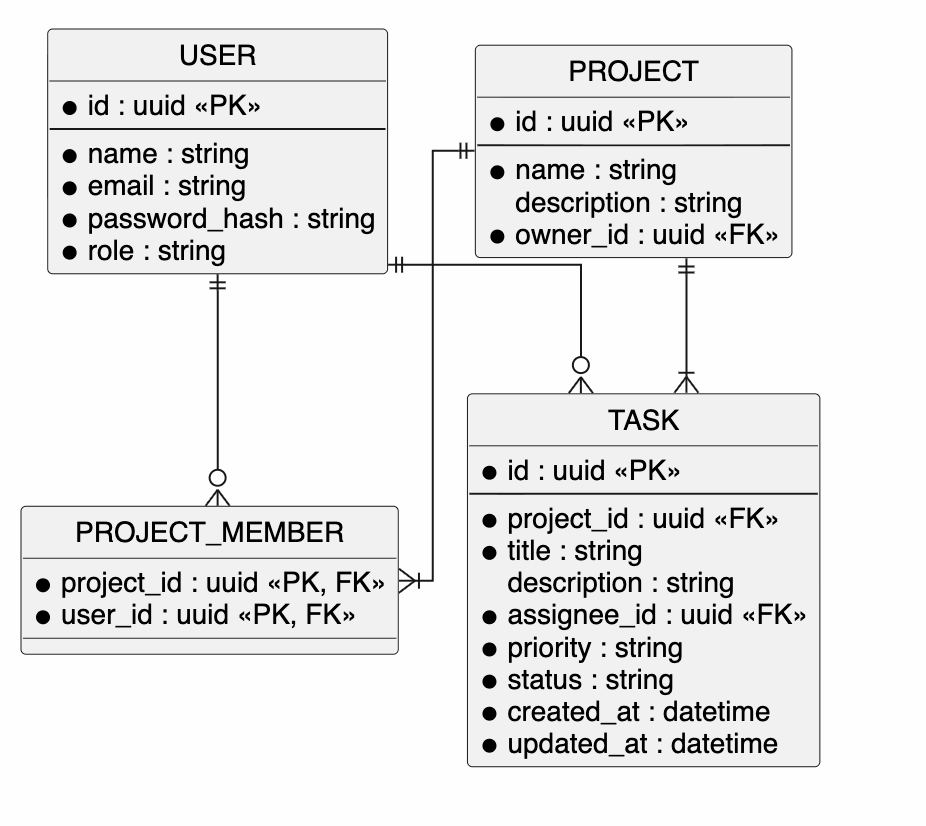
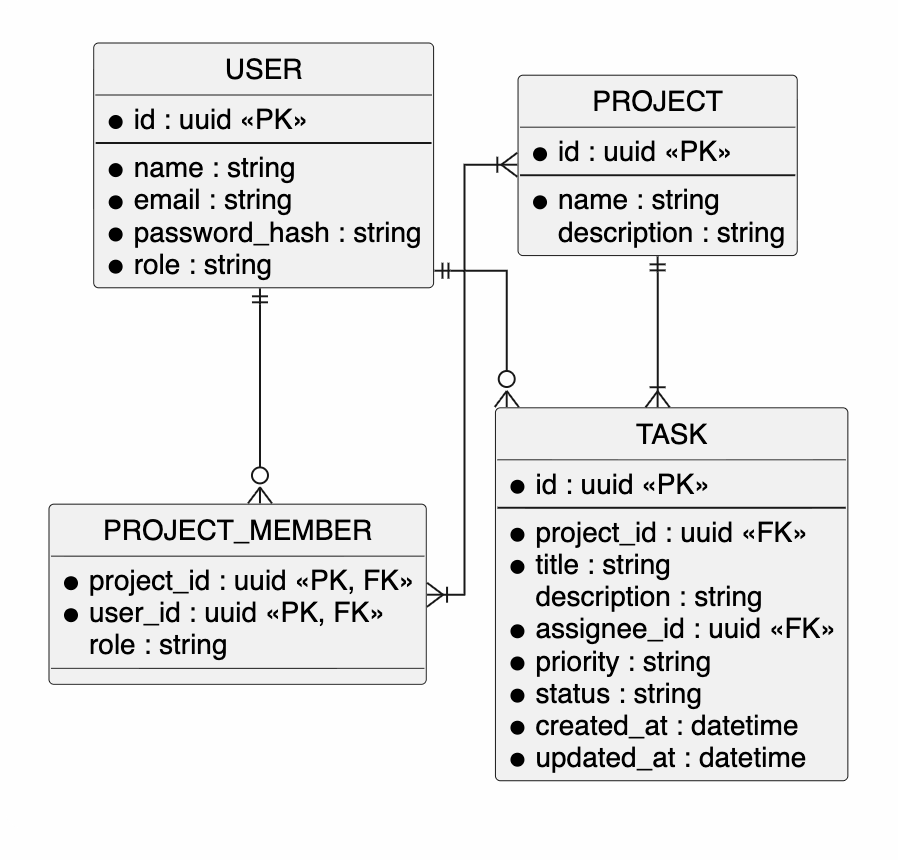
Updated md files

diff --git a/spec.md b/spec.md
@@ -50,10 +50,6 @@ task-tracker — вебзастосунок на Node.js для керуванн
 | C-05 | Завдання   | модуль серверу     | Node.js      |
 | C-06 | База даних | сховище даних      | TODO: обрати |
 
-### Діаграма компонентів
-
-[Діаграма](./docs/diagrams/img/component.png)
-
 ### C-01. Фронтенд
 
 Веб-інтерфейс, через який працюють обидві ролі.
@@ -86,10 +82,9 @@ task-tracker — вебзастосунок на Node.js для керуванн
 - **Відповідає за:**
   - створення проєкту (лише роль `TEAM_LEAD`);
   - отримання проєкту та списку проєктів, доступних користувачу: team lead бачить створені ним, team member — ті, до яких його додано;
-  - визначення власника проєкту.
 - **Володіє даними:** E-02 (Project).
-- **Надає іншим модулям:** чи існує проєкт; чи є користувач його власником.
-- **Залежить від:** C-04 (склад команди для списку проєктів і перевірки доступу), C-06.
+- **Надає іншим модулям:** чи існує проєкт;
+- **Залежить від:** C-04 (склад команди для списку проєктів і перевірки доступу), C-06, C-02.
 
 ### C-04. Команда
 
@@ -97,12 +92,13 @@ task-tracker — вебзастосунок на Node.js для керуванн
 
 - **Відповідає за:**
   - додавання учасника до проєкту за `email` (лише власник проєкту);
+  - визначення ролі користувача в проєкті (owner / member)
   - список учасників проєкту;
   - перевірку, чи є користувач учасником проєкту;
   - список проєктів, у яких бере участь користувач.
 - **Володіє даними:** E-03 (ProjectMember).
 - **Надає іншим модулям:** чи є користувач учасником проєкту; проєкти користувача; список учасників проєкту.
-- **Залежить від:** C-02 (знайти користувача за `email`), C-03 (власник проєкту), C-06.
+- **Залежить від:** C-02 (знайти користувача за `email`), C-06.
 
 ### C-05. Завдання
 
@@ -132,6 +128,10 @@ task-tracker — вебзастосунок на Node.js для керуванн
 
 Кожен запит від C-01 спершу проходить автентифікацію в C-02, а далі потрапляє до модуля, що відповідає за ендпоінт. Модулі викликають один одного напряму (виклик функції в межах одного серверу), а до C-06 звертаються через обране сховище.
 
+### Діаграма компонентів
+
+[Діаграма](./docs/diagrams/img/component.png)
+
 ### Приклад: створення задачі
 
 [Діаграма](./docs/diagrams/img/sequence.png)
@@ -141,8 +141,7 @@ task-tracker — вебзастосунок на Node.js для керуванн
 | Від                    | До                     | Спосіб         | Що передається                                                   |
 | ---------------------- | ---------------------- | -------------- | ---------------------------------------------------------------- |
 | C-01                   | C-02, C-03, C-04, C-05 | HTTP/JSON      | запити користувача; у відповідь — дані або код помилки           |
-| C-03                   | C-04                   | виклик функції | проєкти користувача, чи є користувач учасником, список учасників |
-| C-04                   | C-03                   | виклик функції | чи існує проєкт, чи є користувач його власником                  |
+| C-03                   | C-04                   | виклик функції | проєкти користувача, чи є користувач учасником/власником, список учасників |    
 | C-04                   | C-02                   | виклик функції | користувач за `email`                                            |
 | C-05                   | C-02                   | виклик функції | поточний користувач, ім'я виконавця                              |
 | C-05                   | C-03                   | виклик функції | чи є користувач власником проєкту                                |
@@ -151,21 +150,23 @@ task-tracker — вебзастосунок на Node.js для керуванн
 
 ### API
 
-Усі ендпоінти вимагають автентифікованого користувача (спосіб автентифікації — див. розділ 6). Тіла запитів і відповідей — JSON.
+Усі ендпоінти, крім `/auth/register` та `/auth/login`, вимагають автентифікованого користувача. Тіла запитів і відповідей — JSON.
 
-| Ендпоінт                                      | Модуль | Хто має доступ                     | Запит                                                                                                | Відповідь                                        | Помилки                                                                         |
-| --------------------------------------------- | ------ | ---------------------------------- | ---------------------------------------------------------------------------------------------------- | ------------------------------------------------ | ------------------------------------------------------------------------------- |
-| `POST /projects`                              | C-03   | Team lead                          | `name` (1–100), `description` (0–1000, необов'язково)                                                | `201`, проєкт                                    | `400` невалідні дані; `401`; `403` не team lead                                 |
-| `GET /projects`                               | C-03   | Team lead, team member             | —                                                                                                    | `200`, проєкти, доступні користувачу             | `401`                                                                           |
-| `GET /projects/{projectId}`                   | C-03   | Власник проєкту, учасник проєкту   | —                                                                                                    | `200`, проєкт і список учасників                 | `401`; `403` немає доступу; `404`                                               |
-| `POST /projects/{projectId}/members`          | C-04   | Власник проєкту                    | `email` користувача                                                                                  | `201`, оновлений список учасників                | `400`; `401`; `403`; `404` проєкт або користувач не знайдені; `409` уже учасник |
-| `GET /projects/{projectId}/tasks?assignee=me` | C-05   | Власник проєкту, учасник проєкту   | параметр `assignee=me` необов'язковий: лише мої задачі                                               | `200`, задачі проєкту                            | `401`; `403`; `404`                                                             |
-| `POST /projects/{projectId}/tasks`            | C-05   | Власник проєкту                    | `title` (1–200), `description` (0–5000), `assigneeId`, `priority` (LOW / MEDIUM / HIGH)              | `201`, задача зі статусом TODO                   | `400`; `401`; `403`; `404`; `422` виконавець не є учасником проєкту             |
-| `GET /tasks/{taskId}`                         | C-05   | Власник проєкту, учасник проєкту   | —                                                                                                    | `200`, задача з усіма полями та іменем виконавця | `401`; `403`; `404`                                                             |
-| `PATCH /tasks/{taskId}`                       | C-05   | Власник проєкту                    | `title` (1–200), `description` (0–5000), `priority` (LOW / MEDIUM / HIGH); потрібне хоча б одне поле | `200`, оновлена задача                           | `400` невалідні дані або жодного поля; `401`; `403`; `404`                      |
-| `PATCH /tasks/{taskId}/status`                | C-05   | Власник проєкту; виконавець задачі | `status`                                                                                             | `200`, задача                                    | `400`; `401`; `403`; `404`; `422` недозволений перехід статусу                  |
-| `PATCH /tasks/{taskId}/assignee`              | C-05   | Власник проєкту                    | `assigneeId`                                                                                         | `200`, задача                                    | `400`; `401`; `403`; `404`; `422` виконавець не є учасником проєкту             |
-| `DELETE /tasks/{taskId}`                      | C-05   | Власник проєкту                    | —                                                                                                    | `204`                                            | `401`; `403`; `404`                                                             |     |
+| Ендпоінт | Модуль | Хто має доступ | Запит | Відповідь | Помилки |
+| -------- | ------ | -------------- | ----- | ---------- | ------- |
+| `POST /auth/register` | C-02 | Неавтентифікований користувач | `name` (1–100), `email`, `password` | `201`, створений користувач | `400` невалідні дані; `409` email уже зареєстрований |
+| `POST /auth/login` | C-02 | Неавтентифікований користувач | `email`, `password` | `200`, токен автентифікації | `400` невалідні дані; `401` неправильний email або пароль |
+| `POST /projects` | C-03 | Team lead | `name` (1–100), `description` (0–1000, необов'язково) | `201`, проєкт | `400` невалідні дані; `401`; `403` не team lead |
+| `GET /projects` | C-03 | Team lead, team member | — | `200`, проєкти, доступні користувачу | `401` |
+| `GET /projects/{projectId}` | C-03 | Власник проєкту, учасник проєкту | — | `200`, проєкт і список учасників | `401`; `403` немає доступу; `404` |
+| `POST /projects/{projectId}/members` | C-04 | Власник проєкту | `email` користувача | `201`, оновлений список учасників | `400`; `401`; `403`; `404` проєкт або користувач не знайдені; `409` уже учасник |
+| `GET /projects/{projectId}/tasks?assignee=me` | C-05 | Власник проєкту, учасник проєкту | параметр `assignee=me` необов'язковий: лише мої задачі | `200`, задачі проєкту | `401`; `403`; `404` |
+| `POST /projects/{projectId}/tasks` | C-05 | Власник проєкту | `title` (1–200), `description` (0–5000), `assigneeId`, `priority` (LOW / MEDIUM / HIGH) | `201`, задача зі статусом TODO | `400`; `401`; `403`; `404`; `422` виконавець не є учасником проєкту |
+| `GET /tasks/{taskId}` | C-05 | Власник проєкту, учасник проєкту | — | `200`, задача з усіма полями та іменем виконавця | `401`; `403`; `404` |
+| `PATCH /tasks/{taskId}` | C-05 | Власник проєкту | `title` (1–200), `description` (0–5000), `priority` (LOW / MEDIUM / HIGH); потрібне хоча б одне поле | `200`, оновлена задача | `400` невалідні дані або жодного поля; `401`; `403`; `404` |
+| `PATCH /tasks/{taskId}/status` | C-05 | Власник проєкту; виконавець задачі | `status` | `200`, задача | `400`; `401`; `403`; `404`; `422` недозволений перехід статусу |
+| `PATCH /tasks/{taskId}/assignee` | C-05 | Власник проєкту | `assigneeId` | `200`, задача | `400`; `401`; `403`; `404`; `422` виконавець не є учасником проєкту |
+| `DELETE /tasks/{taskId}` | C-05 | Власник проєкту | — | `204` | `401`; `403`; `404` |                                                      |     |
 
 ## 4. ER-діаграма
 
@@ -188,7 +189,6 @@ task-tracker — вебзастосунок на Node.js для керуванн
 | id          | uuid   | PK                                                      |
 | name        | string | 1–100 символів, обов'язкове                             |
 | description | string | 0–1000 символів, необов'язкове                          |
-| owner_id    | uuid   | FK → E-01, обов'язкове; користувач із роллю `TEAM_LEAD` |
 
 ### E-03. ProjectMember (C-04)
 
@@ -196,6 +196,7 @@ task-tracker — вебзастосунок на Node.js для керуванн
 | ---------- | ---- | -------------------------------- |
 | project_id | uuid | FK → E-02, частина складеного PK |
 | user_id    | uuid | FK → E-01, частина складеного PK |
+| role    | string   | member/owner |
 
 Пара (`project_id`, `user_id`) унікальна: користувач не може бути доданий до проєкту двічі.
 

diff --git a/audit-spec.md b/audit-spec.md
@@ -1,0 +1,17 @@
+# Аудит spec.md
+
+## 1. Відповідність структури формату
+
+Структура `spec.md` загалом відповідає формату: усі п'ять розділів на місці, у правильному порядку, з потрібним наповненням. Опис містить призначення, права ролей і межі; компоненти мають таблицю та поля «відповідає за», «володіє даними», «залежить від»; розділ взаємодії має реєстр викликів і таблицю API з ролями, тілами та кодами помилок; ER-розділ має діаграму, таблиці полів і переходи статусів; усі шість обов'язкових сценаріїв описано за шаблоном. Ідентифікатори `C-`, `E-`, `U-` витримано, діаграми лежать як PlantUML-код у `/docs`.
+
+Відмінності від format-spec: 
+- Діаграма компонентів стоїть у розділі 2, тоді як формат вимагає діаграму всіх компонентів у розділі 3.
+- У форматі для ER-діаграми досі вказано Mermaid, хоча загальні вимоги кажуть про PlantUML.
+
+## 2. Топ-3 зайві або неправильні залежності
+
+**1. Цикл C-03 ↔ C-04 (неправильна).** Проєкт залежить від Команди (склад учасників для списку проєктів), а Команда від Проєкту (власник для додавання учасника). Через це правило «власник або учасник» розмазане по трьох модулях. Виправлення: зберігати власника в E-03 з полем ролі, тоді залежність C-04 → C-03 зникне.
+
+**2. C-01 → C-02 без контракту (зайва).** Фронтенд «залежить» від модуля користувача, але в таблиці API немає жодного його ендпоінта: ні реєстрації, ні входу. Або додати такі ендпоінти, або прибрати залежність.
+
+**3. Автентифікація не відображена в залежностях (неповна).** Розділ 5 каже, що кожен запит проходить автентифікацію в C-02, але C-03 і C-04 у «Залежить від» його для цього не мають, а «поточний користувач» у реєстрі передається лише в C-05. Або додати C-02 до залежностей усіх модулів, або описати автентифікацію як наскрізний крок перед ними.

diff --git a/docs/adr/02-choose-architecture.md b/docs/adr/02-choose-architecture.md
@@ -1,0 +1,44 @@
+---
+date: 2026-09-30
+---
+
+# Архітектура серверу: модульний моноліт із шарами controller, service, repository
+
+## Контекст і проблема
+
+Сервер має обробляти чотири предметні частини: користувачів, проєкти, команди та задачі. Потрібно вирішити, як організувати код, щоб відповідальності були розмежовані, а правила доступу й бізнес-правила перевірялися в одному місці.
+
+## Чинники рішення
+
+- Чіткі межі відповідальності між частинами предметної області
+- Перевірка прав і бізнес-правил на сервері, а не в інтерфейсі
+- Простота розгортання та розробки
+- Тестованість окремих шарів
+
+## Розглянуті варіанти
+
+- Один шар обробників маршрутів без розділення на модулі
+- Модульний моноліт: модулі user, project, team, task, у кожному controller, service, repository
+
+## Результат рішення
+
+Обрано модульний моноліт із трьома шарами в кожному модулі, тому що він розмежовує відповідальності, зберігає простоту розгортання одного застосунку й дозволяє тестувати шари окремо.
+
+### Наслідки
+
+- Плюс: controller відповідає за HTTP, service за бізнес-правила й права, repository єдиний працює з базою даних.
+- Плюс: модулі викликають один одного лише через сервіси.
+- Мінус: між модулями project і team виникає взаємна залежність, яку потрібно розв'язати окремим рішенням.
+- Мінус: більше файлів і класів, ніж в одношаровому варіанті.
+
+## Плюси і мінуси варіантів
+
+### Один шар обробників маршрутів
+
+- Плюс: найменше коду.
+- Мінус: бізнес-правила змішуються з HTTP-логікою й дублюються в різних маршрутах.
+
+### Модульний моноліт із шарами
+
+- Плюс: чіткі межі, однакова будова модулів, простий запуск.
+- Мінус: потрібно стежити за напрямком залежностей між модулями.

diff --git a/docs/adr/03-choose-database.md b/docs/adr/03-choose-database.md
@@ -1,0 +1,43 @@
+---
+date: 2026-09-30
+---
+
+# Тип сховища даних: реляційна база даних із SQL
+
+## Контекст і проблема
+
+Застосунок зберігає користувачів, проєкти, учасників проєктів і задачі, які пов'язані між собою. Потрібно обрати тип сховища для цих даних.
+
+## Чинники рішення
+
+- Реляційні зв'язки між сутностями (проєкт, учасник, задача, виконавець)
+- Цілісність даних: зовнішні ключі й унікальні обмеження
+- Транзакційність операцій
+- Простота розробки
+
+## Розглянуті варіанти
+
+- Реляційна база даних (SQL)
+- Документна база даних (наприклад, MongoDB)
+
+## Результат рішення
+
+Обрано реляційну базу даних із SQL, тому що дані мають чіткі зв'язки, а цілісність (унікальність `email`, пари «проєкт + учасник», зовнішні ключі) зручно гарантувати на рівні сховища.
+
+### Наслідки
+
+- Плюс: цілісність зв'язків забезпечується зовнішніми ключами та обмеженнями, а модулі звертаються до бази через SQL-запити в репозиторіях.
+- Мінус: потрібна схема даних і початкова ініціалізація бази.
+- Конкретну СУБД слід обрати окремим ADR.
+
+## Плюси і мінуси варіантів
+
+### Реляційна база даних (SQL)
+
+- Плюс: зовнішні ключі, унікальні обмеження, транзакції.
+- Мінус: потрібні схема й міграції.
+
+### Документна база даних
+
+- Плюс: гнучка схема.
+- Мінус: зв'язки та унікальність між сутностями доводиться підтримувати в коді.

diff --git a/standards/adr-format.md b/standards/adr-format.md
@@ -62,55 +62,3 @@ date: YYYY-MM-DD
 ### Плюси і мінуси варіантів
 
 Для кожного розглянутого варіанта — короткий список переваг і недоліків.
-
-```markdown
----
-status: accepted
-date: 2026-09-29
-decision-makers: автор проєкту
----
-
-# Вибір бази даних: PostgreSQL
-
-## Контекст і проблема
-
-Застосунку потрібно зберігати користувачів, проєкти, учасників і задачі зі зв'язками між ними. Потрібно обрати систему зберігання даних.
-
-## Чинники рішення
-
-- Реляційні зв'язки між сутностями
-- Транзакційність операцій
-- Простота розгортання
-
-## Розглянуті варіанти
-
-- PostgreSQL
-- SQLite
-- MongoDB
-
-## Результат рішення
-
-Обрано PostgreSQL, тому що дані мають чіткі реляційні зв'язки й потребують транзакцій.
-
-### Наслідки
-
-- Плюс: цілісність даних гарантується зовнішніми ключами та транзакціями.
-- Мінус: потрібен окремий сервер БД у середовищі розробки.
-
-## Плюси і мінуси варіантів
-
-### PostgreSQL
-
-- Плюс: зовнішні ключі, транзакції, багата підтримка типів.
-- Мінус: складніше розгортання.
-
-### SQLite
-
-- Плюс: не потребує сервера.
-- Мінус: обмежена підтримка одночасного запису.
-
-### MongoDB
-
-- Плюс: гнучка схема.
-- Мінус: зв'язки між сутностями доводиться підтримувати вручну.
-```

diff --git a/docs/adr/01-choose-platform.md b/docs/adr/01-choose-platform.md
@@ -1,0 +1,42 @@
+---
+date: 2026-09-30
+---
+
+# Вибір платформи для серверу: Node.js
+
+## Контекст і проблема
+
+Потрібно реалізувати вебзастосунок task-tracker із HTTP API, ролями користувачів і канбан-дошкою. Треба обрати платформу для серверної частини.
+
+## Чинники рішення
+
+- Швидкий старт і невелика кількість шаблонного коду
+- Знайомство автора з мовою
+- Багата екосистема пакетів і інструментів для тестування та перевірки якості
+- Проста локальна розробка без важкого середовища
+
+## Розглянуті варіанти
+
+- Node.js
+- Python
+
+## Результат рішення
+
+Обрано Node.js, тому що він дає швидкий старт, знайомий автору стек JavaScript і зручні інструменти для тестів та перевірки коду.
+
+### Наслідки
+
+- Плюс: одна мова та єдиний менеджер пакетів (`npm`) для коду, тестів і скриптів перевірок.
+- Мінус: відсутня статична типізація, тому частину помилок мають ловити тести та лінтер.
+
+## Плюси і мінуси варіантів
+
+### Node.js
+
+- Плюс: швидкий старт, велика екосистема npm, простий запуск (`npm start`).
+- Мінус: без статичної типізації.
+
+### Python
+
+- Плюс: лаконічний синтаксис, зрілі фреймворки.
+- Мінус: інший стек для інструментів і скриптів проєкту.

diff --git a/standards/spec-format.md b/standards/spec-format.md
@@ -29,7 +29,7 @@
 
 ## 4. ER-діаграма
 
-- Діаграма Mermaid `erDiagram` з усіма сутностями, їхніми атрибутами та зв'язками (з кардинальністю).
+- Діаграма `erDiagram` з усіма сутностями, їхніми атрибутами та зв'язками (з кардинальністю).
 - Для кожної сутності: таблиця полів (назва, тип, обмеження).
 - Допустимі значення статусів і пріоритетів та дозволені переходи між статусами задачі.
 
